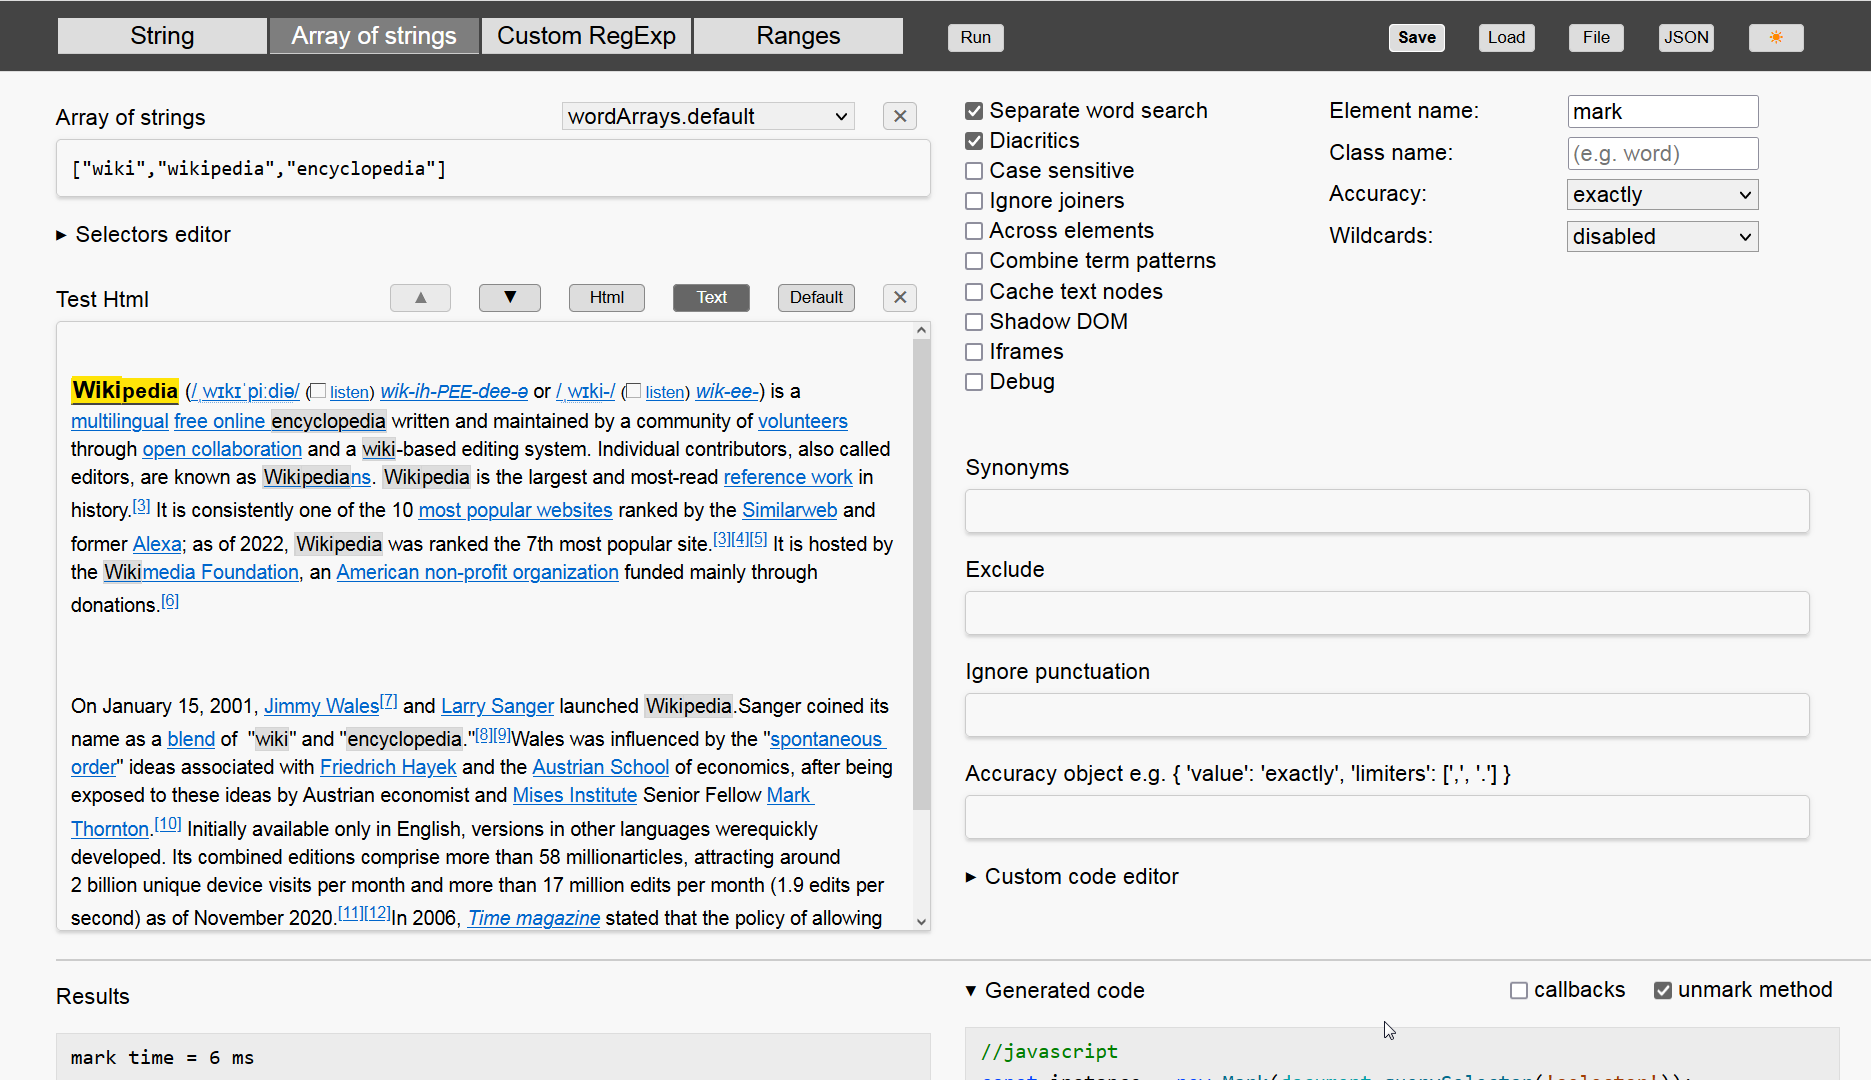
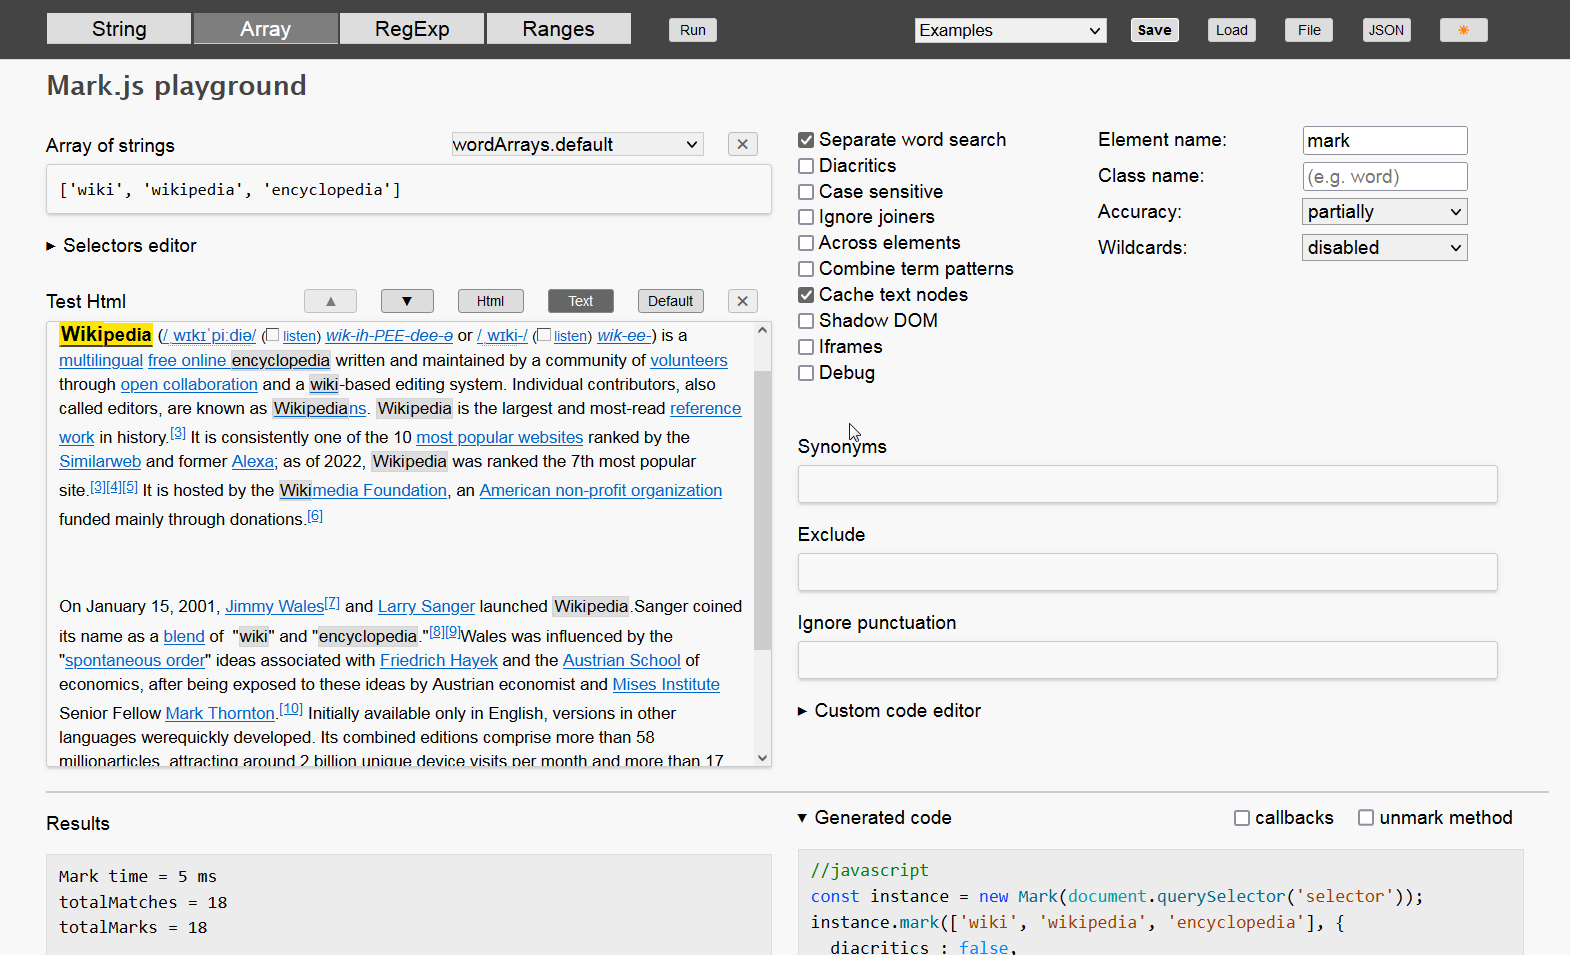
added example, new image, fixed codejar code

diff --git a/codejar/codejar.js b/codejar/codejar.js
@@ -269,33 +269,58 @@ function CodeJar(editor, highlight, opt = {}) {
             }
         }
     }
+    // exactly determines whether character at cursor is escaped
+    function isEscape(code) {
+        let i = code.length - 1;
+        let escaped = code.substr(i) === '\\';
+        if (escaped) {
+            while (--i >= 0 && code[i] === '\\')
+                escaped = !escaped;
+        }
+        return escaped;
+    }
     function handleSelfClosingCharacters(event) {
-        const open = `([{'"`;
-        const close = `)]}'"`;
-        const codeAfter = afterCursor();
-        const codeBefore = beforeCursor();
-        const escapeCharacter = codeBefore.substr(codeBefore.length - 1) === '\\';
-        const charAfter = codeAfter.substr(0, 1);
-        if (close.includes(event.key) && !escapeCharacter && charAfter === event.key) {
-            // We already have closing char next to cursor.
-            // Move one char to right.
-            const pos = save();
-            preventDefault(event);
-            pos.start = ++pos.end;
-            restore(pos);
+        const open = `([{`;
+        const close = `)]}`;
+        const quotes = `'"`;
+        const ch = event.key;
+        // wraps a selection in brackets or quotes, regardless of characters before/after selection
+        if ((open.includes(ch) || quotes.includes(ch)) && getSelection().toString()) {
+            if (open.includes(ch))
+                enclose(event, open, close);
+            else if (quotes.includes(ch))
+                enclose(event, quotes, quotes);
         }
-        else if (open.includes(event.key)
-            && !escapeCharacter
-            && (`"'`.includes(event.key) || ['', ' ', '\n'].includes(charAfter))) {
-            preventDefault(event);
-            const pos = save();
-            const wrapText = pos.start == pos.end ? '' : getSelection().toString();
-            const text = event.key + wrapText + close[open.indexOf(event.key)];
-            insert(text);
-            pos.start++;
-            pos.end++;
-            restore(pos);
+        else {
+            const codeAfter = afterCursor();
+            const charAfter = codeAfter.substr(0, 1);
+            const codeBefore = beforeCursor();
+            const escapeCharacter = isEscape(codeBefore);
+            const array = ['', ' ', '\t', '\n'];
+            if (!escapeCharacter) {
+                if (open.includes(ch) && (close.includes(charAfter) || array.includes(charAfter))) {
+                    enclose(event, open, close);
+                }
+                // NEEDS investigation 
+                // adds closing quote if the array contains 'charAfter'
+                //else if (quotes.includes(ch) && array.includes(charAfter)) {
+                // adds closing quote if the same quote is after the cursor or the array contains 'charAfter'
+                else if (quotes.includes(ch) && (ch === charAfter || array.includes(charAfter))) {
+                    enclose(event, quotes, quotes);
+                }
+            }
         }
+    }
+    // if text is selected, wraps selection, otherwise adds closing character
+    function enclose(event, open, close) {
+        preventDefault(event);
+        const pos = save();
+        const wrapText = pos.start == pos.end ? '' : getSelection().toString();
+        const text = event.key + wrapText + close[open.indexOf(event.key)];
+        insert(text);
+        pos.start++;
+        pos.end++;
+        restore(pos);
     }
     function handleTabCharacters(event) {
         if (event.key === 'Tab') {

diff --git a/src/js/data.js b/src/js/data.js
@@ -17,13 +17,6 @@ const wordArrays = {
 
 const minHtml = `<div id="mw-page-base" class="noprint"><p>Wikipedia is the largest and most-read <a href="#">reference work</a> in history.</p></div>`;
 
-//const defaultHtml = '<h1>Iframe</h1><iframe width="500" height="250" src="http://example.com/"></iframe>';
-//const defaultHtml = '<h1>Iframe</h1><iframe width="500" height="250" src="html/onload.html"></iframe>';
-//const defaultHtml = '<iframe width="500" height="120" src="html/iframe.html"></iframe><h1>Iframe</h1><iframe width="500" height="250" src="html/nested.html""></iframe>';
-//const defaultHtml = '<h1>Iframe Iframe</h1><iframe width="500" height="120" src="html/iframe.html"></iframe><h2>Iframe 2</h2><iframe width="400" height="100" src="html/iframe2.html"></iframe><h3>Iframe 3</h3><iframe width="300" height="100" src="html/iframe3.html"></iframe>';
-//const defaultHtml = '<h1>Iframe</h1><iframe width="500" height="120" src="html/iframe.html"></iframe><h2>Iframe 2</h2><iframe width="400" height="100" src="html/iframe2.html"></iframe><h3>Iframe 3</h3><iframe width="500" height="300" src="html/nested-iframe.html"></iframe>';
-//const defaultHtml = '<h1>Iframe Iframe</h1><iframe width="500" height="120" src="html/iframe.html"></iframe><h2>Iframe 2</h2><iframe width="400" height="100" src="html/iframe2.html"></iframe>';
-//const iframes = '<h1>Iframe Iframe</h1><iframe width="500" height="120" src="html/iframe.html"></iframe><h2>Iframe 2</h2><iframe width="400" height="100" src="html/iframe2.html"></iframe>';
 const iframes = '<h1>Iframe Iframe</h1><iframe width="500" height="120" src="html/iframe.html"></iframe><h2>Iframe 2</h2><iframe width="400" height="100" src="html/iframe2.html"></iframe><iframe width="500" height="300" src="html/iframe.html"></iframe>';
 
 const defaultHtml = `
@@ -130,6 +123,22 @@ const examples = {
         }
     }`,
     
+	markSeparateGroups : `{
+        "version": "1.0.0",
+        "library": "advanced",
+        "section": {
+            "type": "regexp",
+            "acrossElements": true,
+            "separateGroups": true,
+            "customCode": "// your code before\\n<<markjsCode>> // don't remove this line\\n\\nfunction filter(node, matchString, count, info) {\\n  if (info.match.length === 4 && info.groupIndex === 2) return false;\\n  return true;\\n}\\n\\nfunction each(element, info) {}\\n\\nfunction done(totalMarks, totalMatches) {}",
+            "queryRegExp": "/(AB)\\\\b(.+?)\\\\b(BC)(?!D)/g",
+            "testString": {
+                "mode": "html",
+                "content": "AAB xxx BCD xx BC  AAB xxx BCD xx BC\\n\\nIt demonstrates requirement of a group 2 to correctly highlight groups without 'd' flag.\\nIf the parenthesis of the group 2 are removed, the wrong 'BC' is highlighted.\\nWith 'd' flag it's highlighted correctly."
+            }
+        }
+    }`,
+	
 	overlappedMatches : `{
         "version": "1.0.0",
         "library": "advanced",

diff --git a/src/js/main.js b/src/js/main.js
@@ -908,7 +908,7 @@ const importer = {
 				if(obj.editors[key]) obj.editors[key].updateCode('');
 			}
 		}
-		
+
 		const editor = types[currentType].customCodeEditor;
 		if(editor) {
 			editor.updateCode('');
@@ -2157,7 +2157,7 @@ function highlightMatch(elem) {
 	setTimeout(function() { scrollIntoView(elem); }, 100);
 }
 
-// highlight whole match using only the 'start elements' not possible with nesting/overlapping matches
+// highlight a whole match using only the 'start elements' is not possible with nesting/overlapping matches
 // using numbers as unique match identifiers can solve this problem, but only with single-pass methods - 'markRegExp' and 'markRanges'
 function highlightMatch2() {
 	marks.removeClass('current');

diff --git a/src/css/main.css b/src/css/main.css
@@ -152,7 +152,7 @@ body.playground label[for] { cursor: pointer; }
 .actions button.clear { width: 25px; background: #eee; border-color: #bbb; }
 .actions button.clear:hover { background: #ccc; }
 .actions button.clear:before { content: '\2716'; color: #666; }
-/*274C*/
+
 button:active { font-weight: bold; }
 button.inactive { color: #888; border-color: #ccc; }
 
@@ -243,6 +243,7 @@ pre { font-family: "Lucida Sans Unicode", "Lucida Grande", monospace; padding: 6
 	article { padding: 0; }
 	header .mark-type { margin-left: 20px; }
 	header .button-block.right { margin-right: 0; }
+	header select#examples { width: 140px; } 
 	.mixed-options label { margin-right: 10px; }
 }
 
